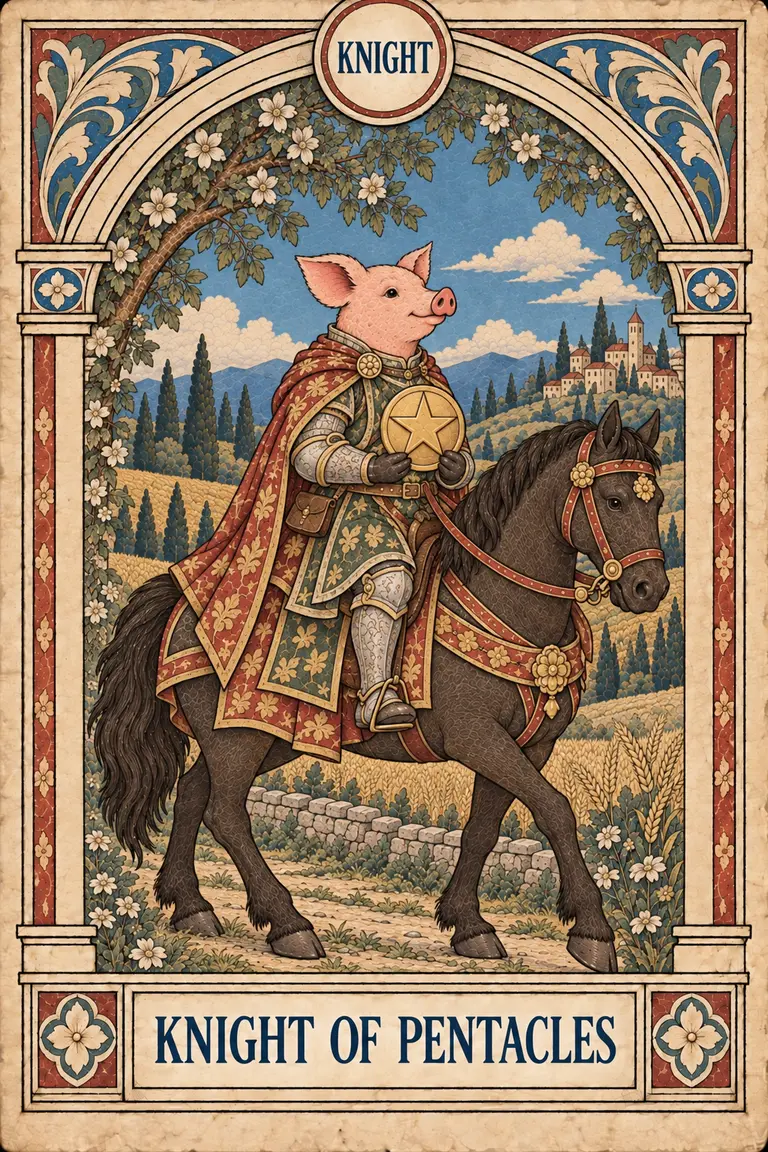
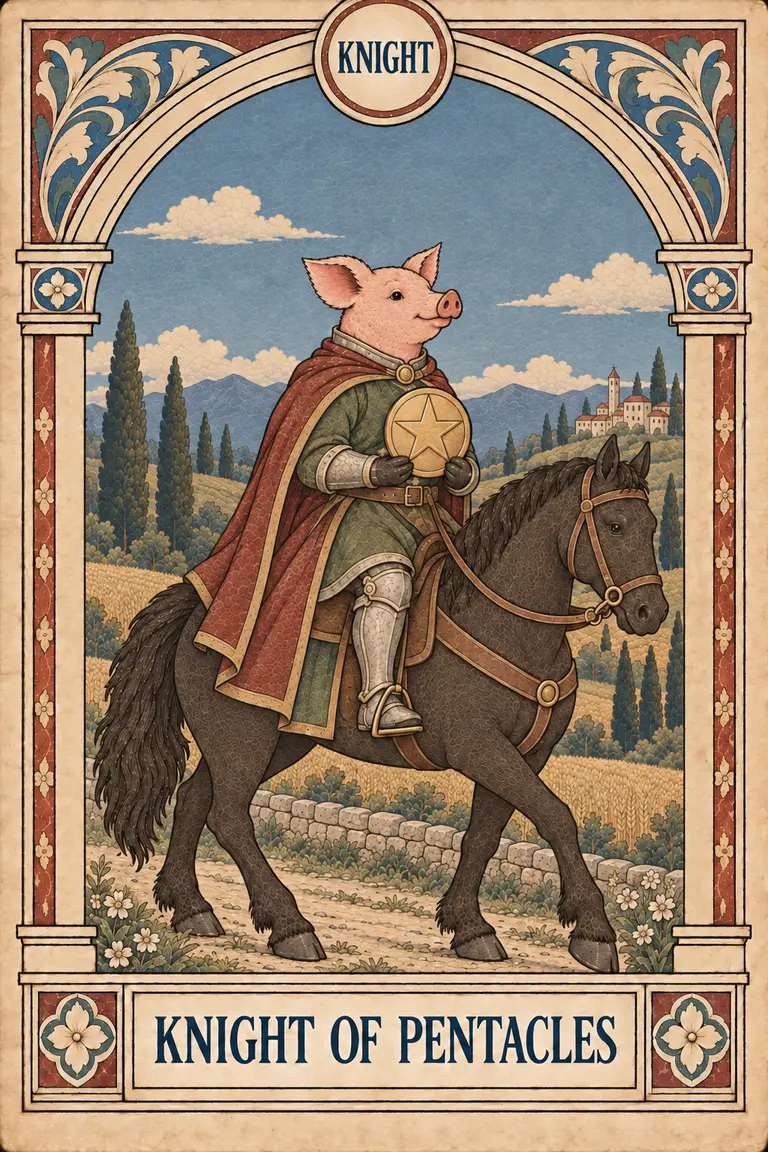
Replace Pentacles Knight with simplified design

diff --git a/assets/js/tarot.js b/assets/js/tarot.js
@@ -45,7 +45,7 @@ const MINOR_ART = Object.freeze({
   'swords-7':'swords-seven.webp', 'swords-8':'swords-eight.webp', 'swords-9':'swords-nine.webp', 'swords-10':'swords-ten.webp',
   'swords-11':'swords-page.webp', 'swords-12':'swords-knight.webp', 'swords-13':'swords-queen.webp', 'swords-14':'swords-king.webp',
   'pentacles-9':'pentacles-nine.webp',
-  'pentacles-11':'pentacles-page.webp', 'pentacles-12':'pentacles-knight.webp', 'pentacles-14':'pentacles-king.webp'
+  'pentacles-11':'pentacles-page.webp', 'pentacles-12':'pentacles-knight.webp?v=20261018-simple', 'pentacles-14':'pentacles-king.webp'
 });
 
 const SUITS = [
